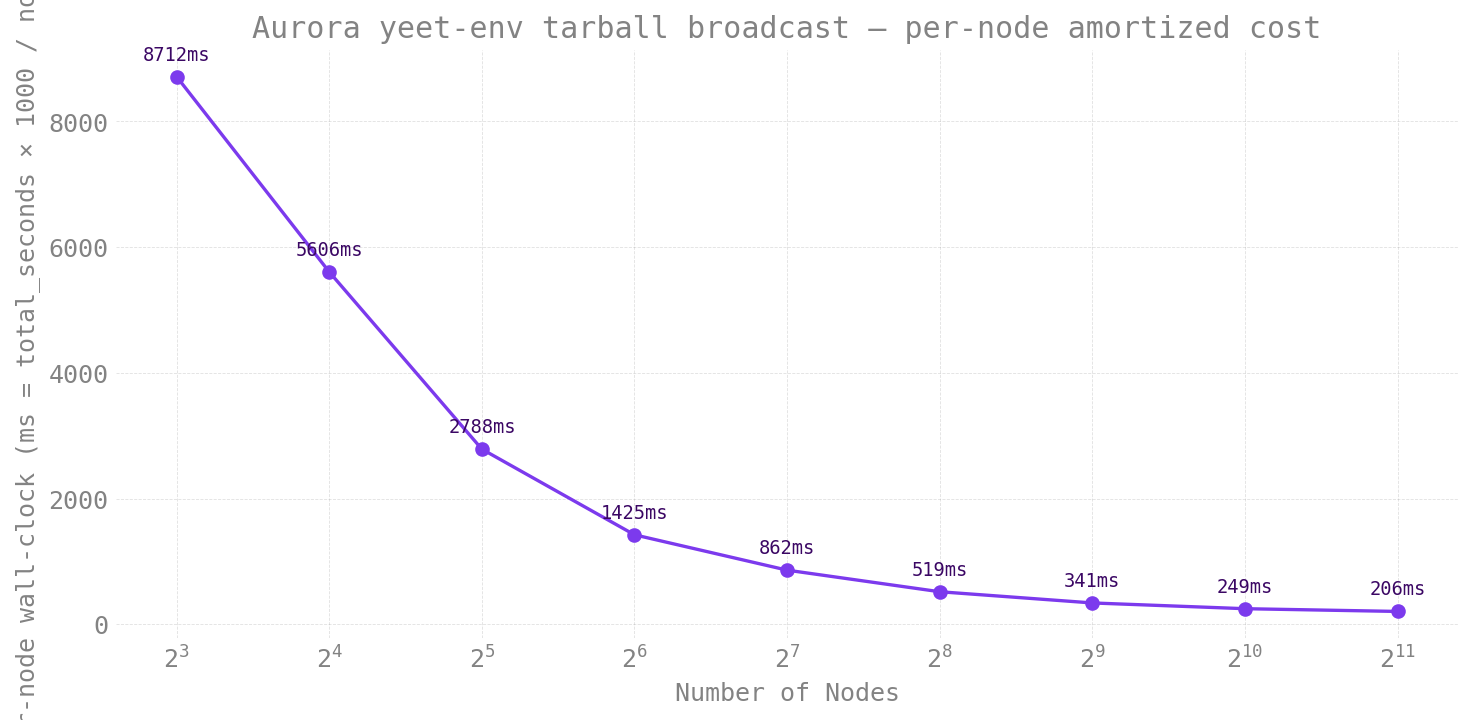
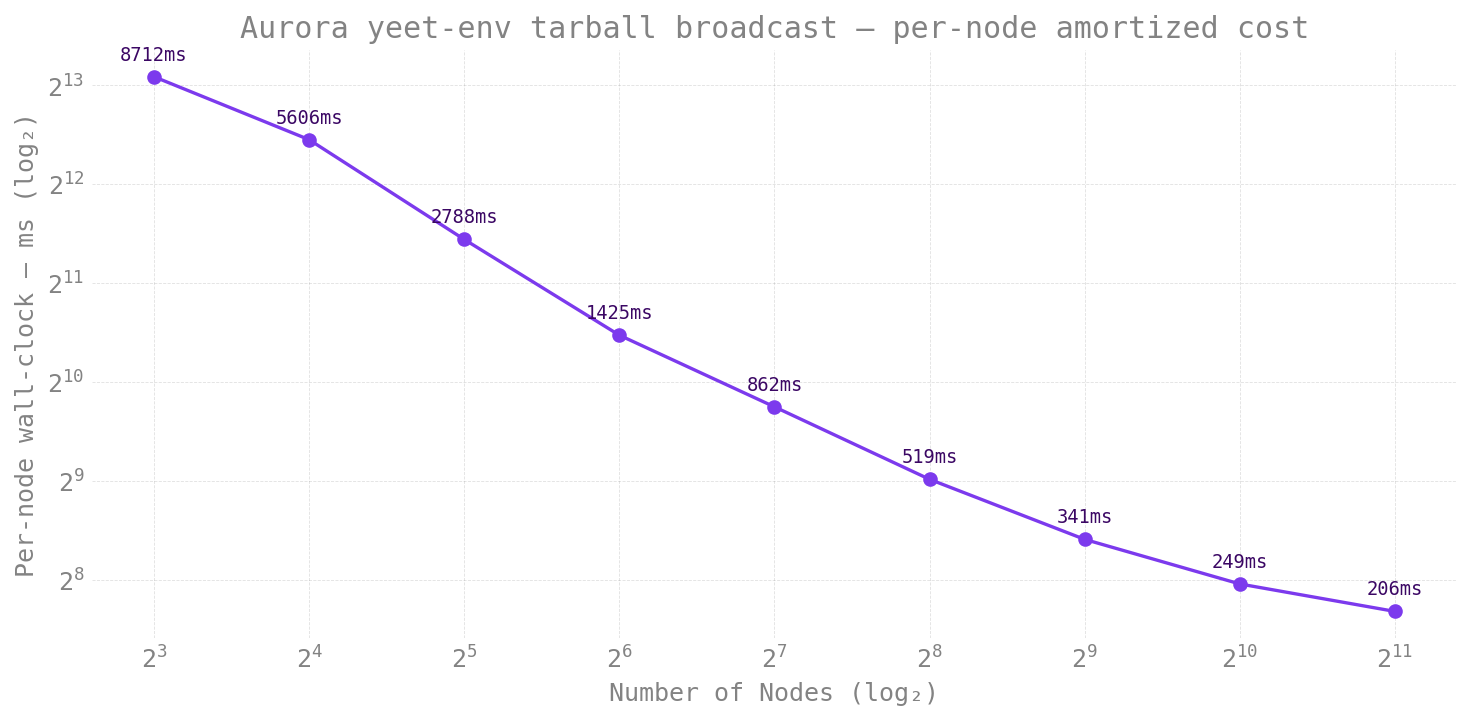
docs(ezpz/scaling/yeet_env): use log-log axes on both plots
The original lin-y plots compressed the 8-64N plateau against the x-axis
and made the per-node 1/N decay look like a step. Log-log makes both
regimes immediately visible:
- per-node curve traces a ~-1 slope past N=64 (confirms broadcast-bound
  scaling)
- total wall-clock plateaus at ~90s through N=64 then grows roughly
  linearly in log space until the 2048N super-linear knee.

diff --git a/torchtitan/experiments/ezpz/docs/scaling/yeet_env/plot_yeet_env_scaling.py b/torchtitan/experiments/ezpz/docs/scaling/yeet_env/plot_yeet_env_scaling.py
@@ -67,8 +67,9 @@ def plot_total(rows: list[dict], out_path: Path) -> None:
             ha="center", fontsize=9, color="#0c4a6e",
         )
     ax.set_xscale("log", base=2)
-    ax.set_xlabel("Number of Nodes")
-    ax.set_ylabel("yeet-env wall-clock (seconds)")
+    ax.set_yscale("log", base=2)
+    ax.set_xlabel("Number of Nodes (log₂)")
+    ax.set_ylabel("yeet-env wall-clock — seconds (log₂)")
     ax.set_title(
         "Aurora yeet-env tarball broadcast — total wall-clock vs node count"
     )
@@ -91,8 +92,9 @@ def plot_per_node(rows: list[dict], out_path: Path) -> None:
             ha="center", fontsize=9, color="#3b0764",
         )
     ax.set_xscale("log", base=2)
-    ax.set_xlabel("Number of Nodes")
-    ax.set_ylabel("Per-node wall-clock (ms = total_seconds × 1000 / nodes)")
+    ax.set_yscale("log", base=2)
+    ax.set_xlabel("Number of Nodes (log₂)")
+    ax.set_ylabel("Per-node wall-clock — ms (log₂)")
     ax.set_title(
         "Aurora yeet-env tarball broadcast — per-node amortized cost"
     )
